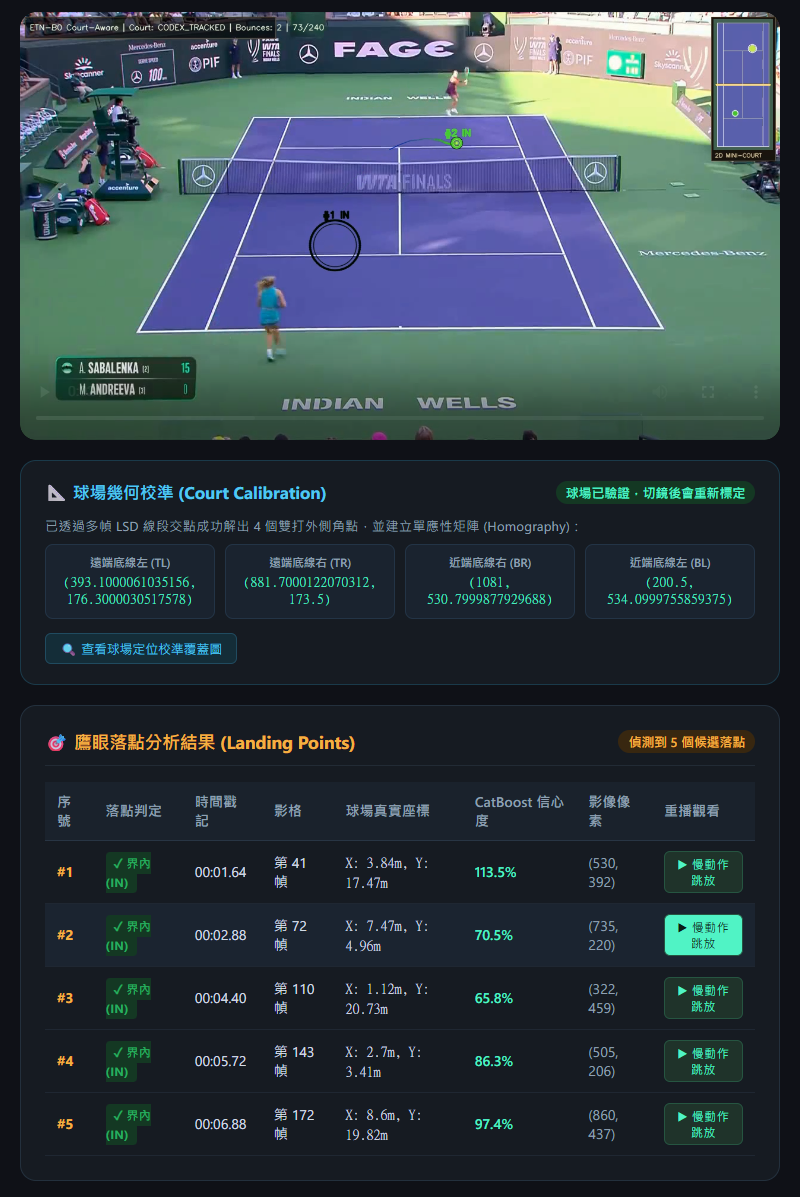
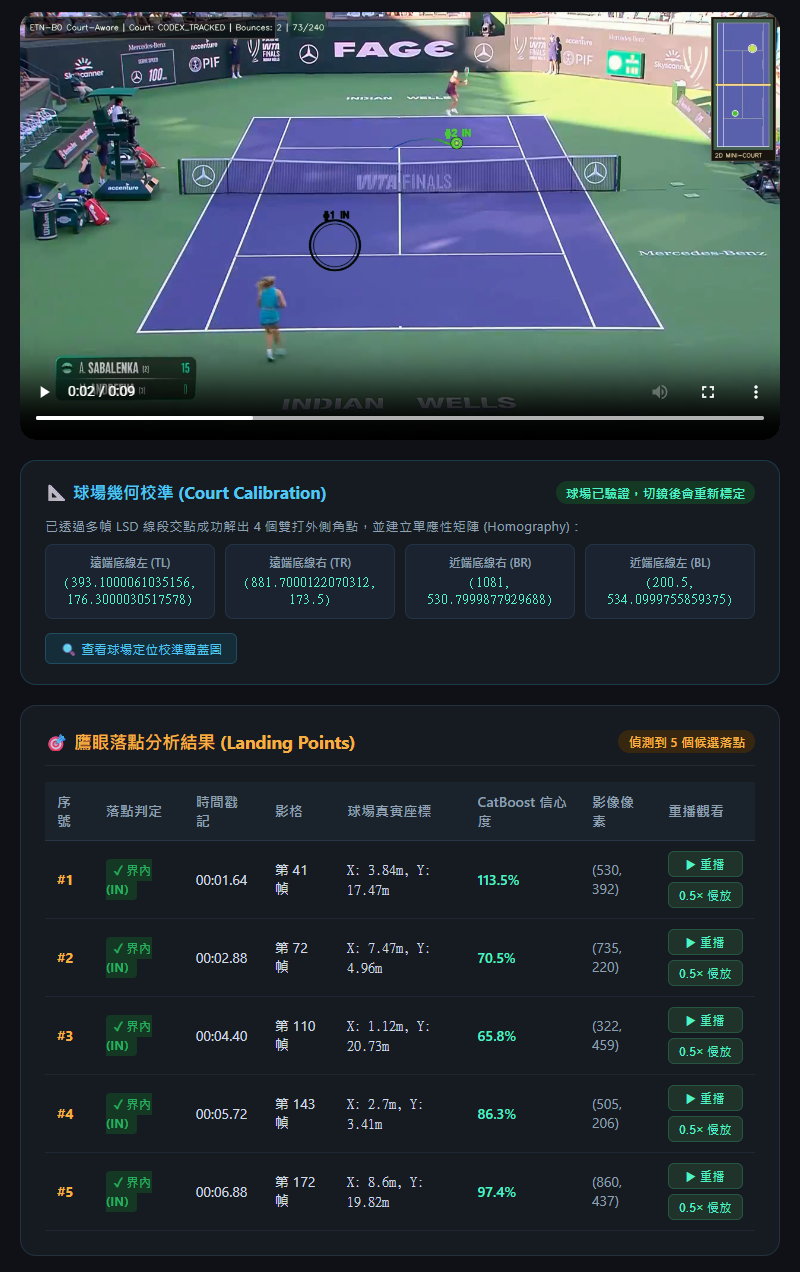
Add slow-motion Web bounce replay

diff --git a/working/web/templates/index.html b/working/web/templates/index.html
@@ -72,7 +72,8 @@
   .bounce-table th{background:#1a222c;color:#8fa0b2;text-align:left;padding:10px 12px;font-weight:600;border-bottom:1px solid #283544}
   .bounce-table td{padding:10px 12px;border-bottom:1px solid #1f2732;color:#d2dbe5}
   .bounce-table tr:hover td{background:#1b2430}
-  .jump-btn{background:#1f332a;color:#50f3c5;border:1px solid #265541;padding:4px 10px;border-radius:6px;font-size:.78rem;cursor:pointer;transition:.15s}
+  .jump-actions{display:grid;gap:5px}
+  .jump-btn{white-space:nowrap;background:#1f332a;color:#50f3c5;border:1px solid #265541;padding:4px 10px;border-radius:6px;font-size:.78rem;cursor:pointer;transition:.15s}
   .jump-btn:hover{background:#50f3c5;color:#091b13}
 
   .empty-bounce{color:#888;font-size:.9rem;text-align:center;padding:24px 0}
@@ -443,7 +444,12 @@ function renderBounces(bounces) {
         <td><code>X: ${b.court_x}m, Y: ${b.court_y}m</code></td>
         <td>${confStr}</td>
         <td style="color:#8fa0b2">(${b.x}, ${b.y})</td>
-        <td><button class="jump-btn" onclick="jumpTo(${b.time_sec})">▶ 慢動作跳放</button></td>
+        <td>
+          <div class="jump-actions">
+            <button type="button" class="jump-btn" onclick="jumpTo(${b.time_sec})">▶ 重播</button>
+            <button type="button" class="jump-btn" onclick="jumpTo(${b.time_sec}, 0.5)">0.5× 慢放</button>
+          </div>
+        </td>
       </tr>
     `;
   });
@@ -452,9 +458,10 @@ function renderBounces(bounces) {
   tableContainer.innerHTML = html;
 }
 
-function jumpTo(sec) {
+function jumpTo(sec, playbackRate = 1) {
   if (previewVid) {
-    previewVid.currentTime = Math.max(0, sec - 0.5);
+    previewVid.currentTime = Math.max(0, sec - 1);
+    previewVid.playbackRate = playbackRate;
     previewVid.play();
   }
 }

diff --git a/tests/test_frontend.js b/tests/test_frontend.js
@@ -130,5 +130,16 @@ const flush = () => new Promise(resolve => setImmediate(resolve));
   await vm.runInContext('toggleAnalysisSpeed()', preference.context);
   assert.equal(preference.elements.get('speedBtn').attributes['aria-pressed'], 'false');
 
-  console.log('7 frontend checks passed (4 error paths, live speed toggle/export, failed switch, pre-upload preference).');
+  const replay = createContext([]);
+  vm.runInContext("renderBounces([{id: 2, frame: 72, timestamp: '00:02.88', time_sec: 2.88}])", replay.context);
+  const bounceTable = replay.elements.get('bounceTableContainer').innerHTML;
+  assert.match(bounceTable, /onclick="jumpTo\(2\.88\)">▶ 重播/);
+  assert.match(bounceTable, /onclick="jumpTo\(2\.88, 0\.5\)">0\.5× 慢放/);
+  const replayVideo = replay.elements.get('previewVid');
+  const playbacks = [];
+  replayVideo.play = () => playbacks.push([replayVideo.currentTime, replayVideo.playbackRate]);
+  vm.runInContext('jumpTo(2.88, 0.5); jumpTo(2.88); jumpTo(0.4, 0.5);', replay.context);
+  assert.deepEqual(playbacks, [[1.88, 0.5], [1.88, 1], [0, 0.5]]);
+
+  console.log('8 frontend checks passed (4 error paths, live speed toggle/export, failed switch, pre-upload preference, bounce replay).');
 })().catch(error => { console.error(error); process.exitCode = 1; });
